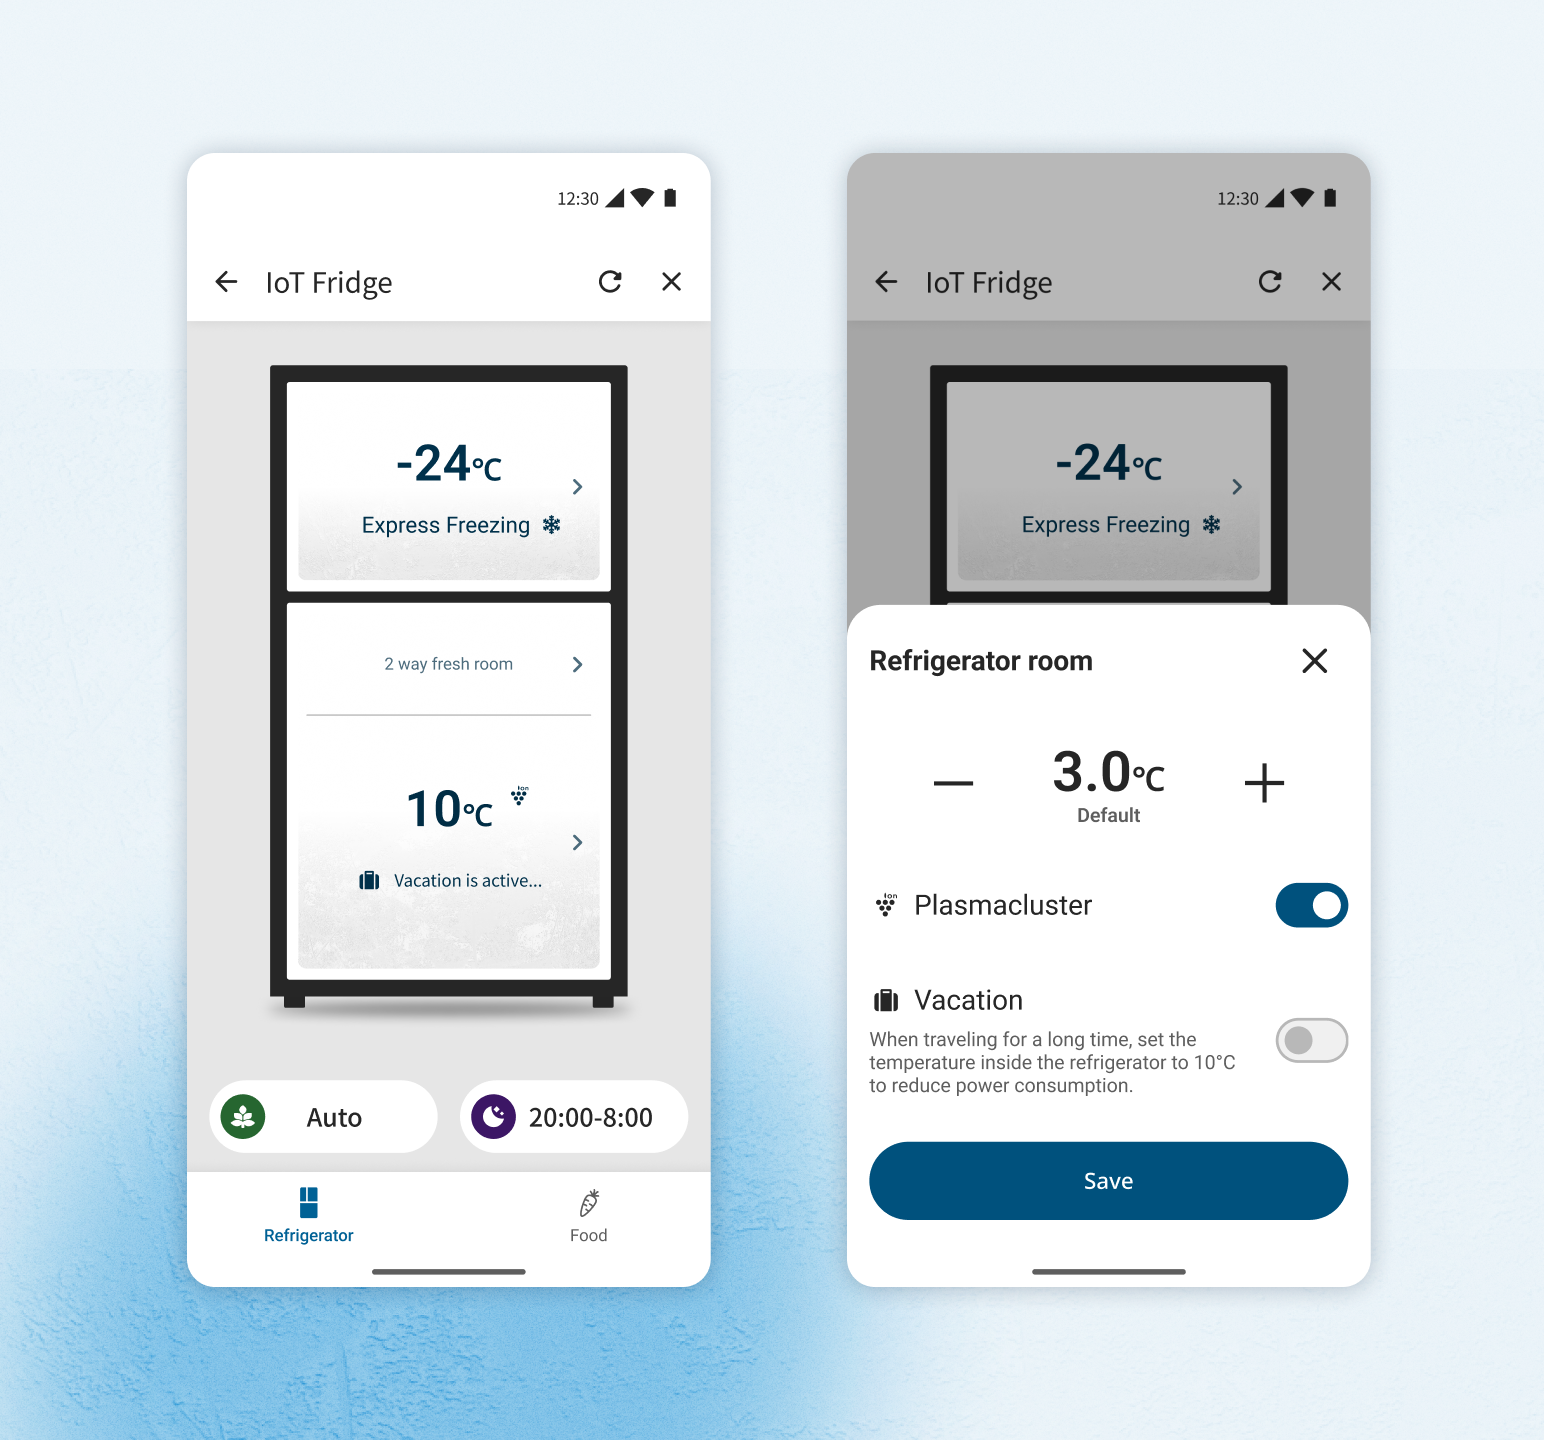
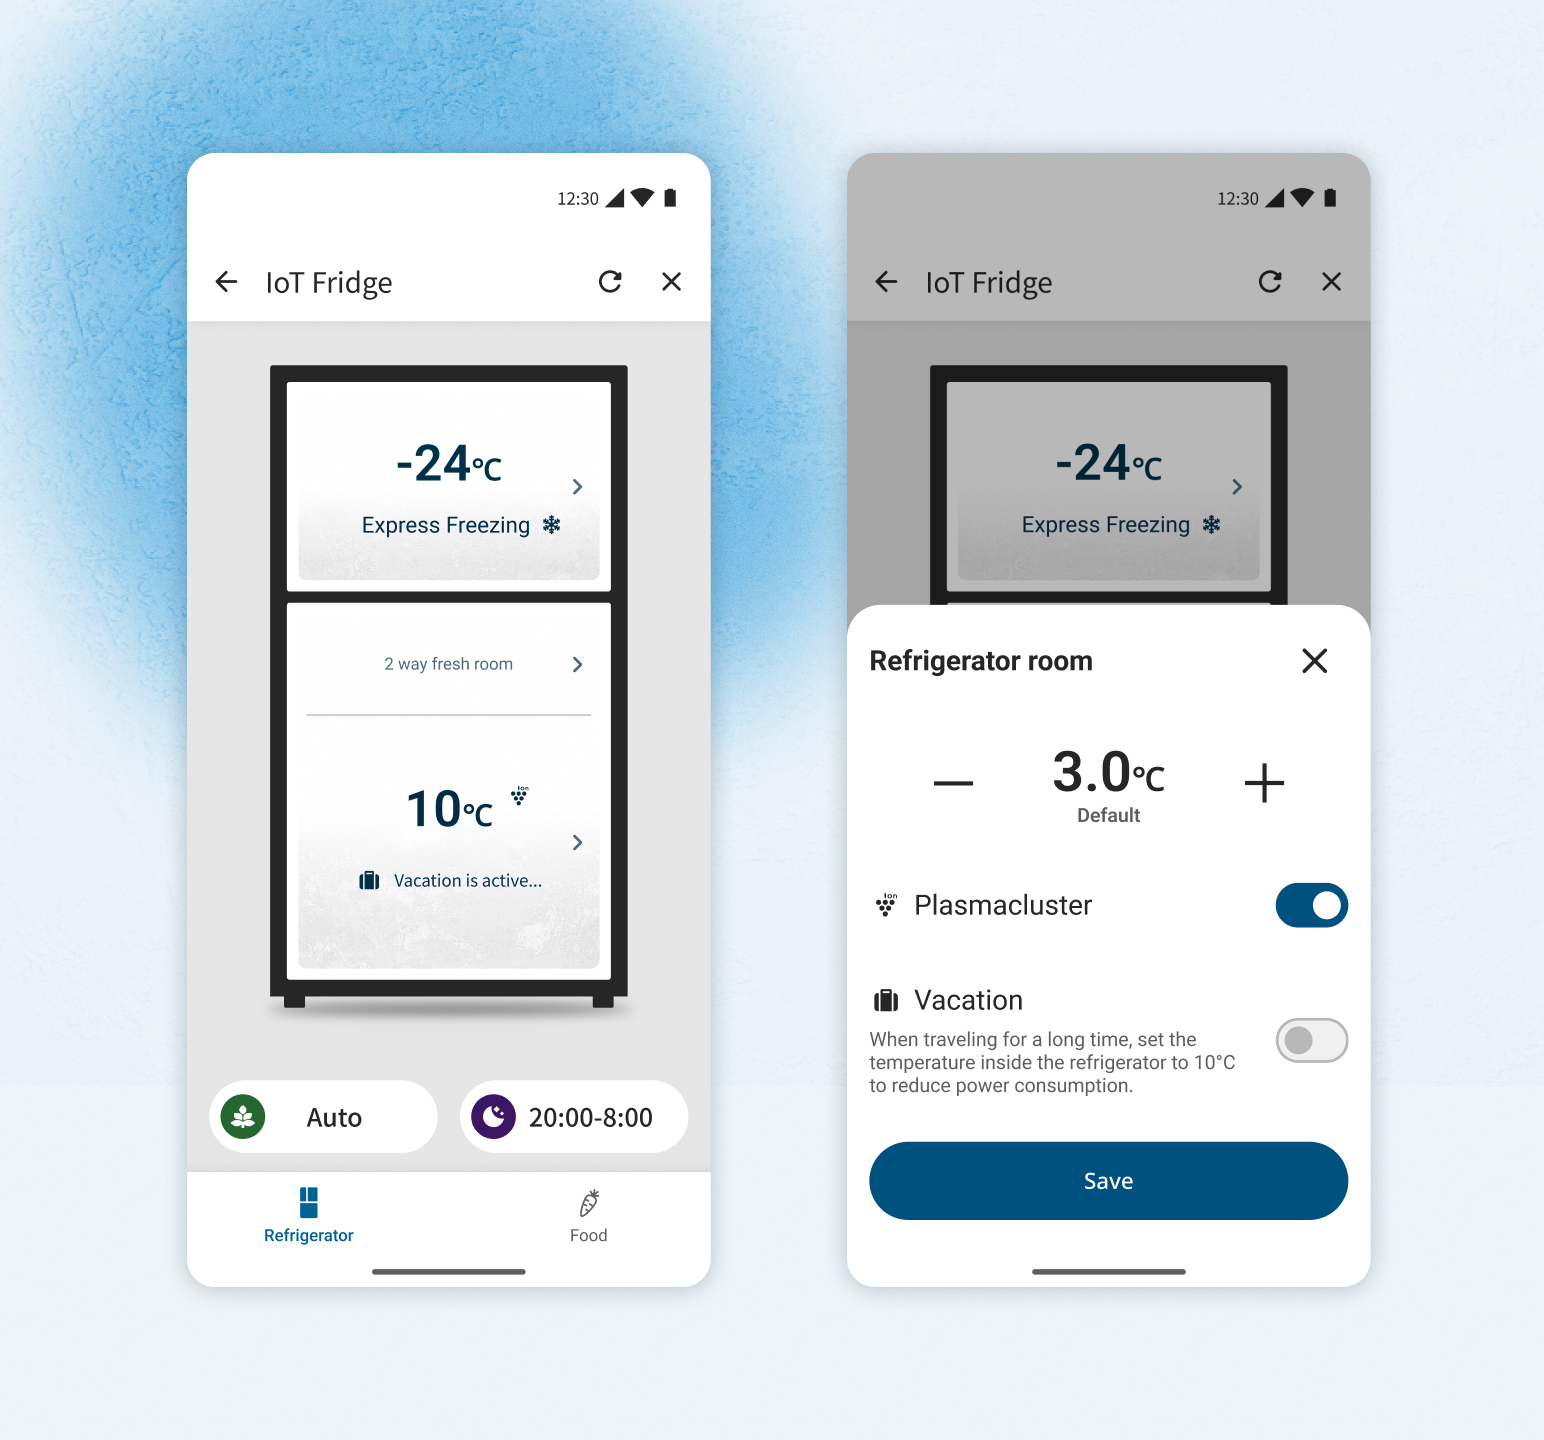
カルーセルのバッジ右側の余白を32px→100pxに

Changed region(s): [[0.0, 0.0, 0.5596, 0.5312], [0.0, 0.6562, 0.5907, 1.0]]

diff --git a/index.html b/index.html
@@ -157,7 +157,7 @@
      mediaの-24pxで1行時も画像に食い込む。position/z-indexは画像より手前に出すため。 */
   .hero-carousel__band{width:100%;position:relative;z-index:1;height:calc(16px + 10px * 1.5 + 5px + 14px * 1.5)}
   .hero-carousel__badge{
-    position:absolute;left:0;bottom:0;max-width:calc(100% - 32px);box-sizing:border-box; /* 伸びても画面右端から32pxは空ける */
+    position:absolute;left:0;bottom:0;max-width:calc(100% - 100px);box-sizing:border-box; /* 伸びても画面右端から100pxは空ける */
     background:linear-gradient(to right,#ed23a3,#ff5887 50%,#ee7c54);
     color:#fff;display:flex;flex-direction:column;gap:5px;
     padding:8px 16px;border-radius:0;
